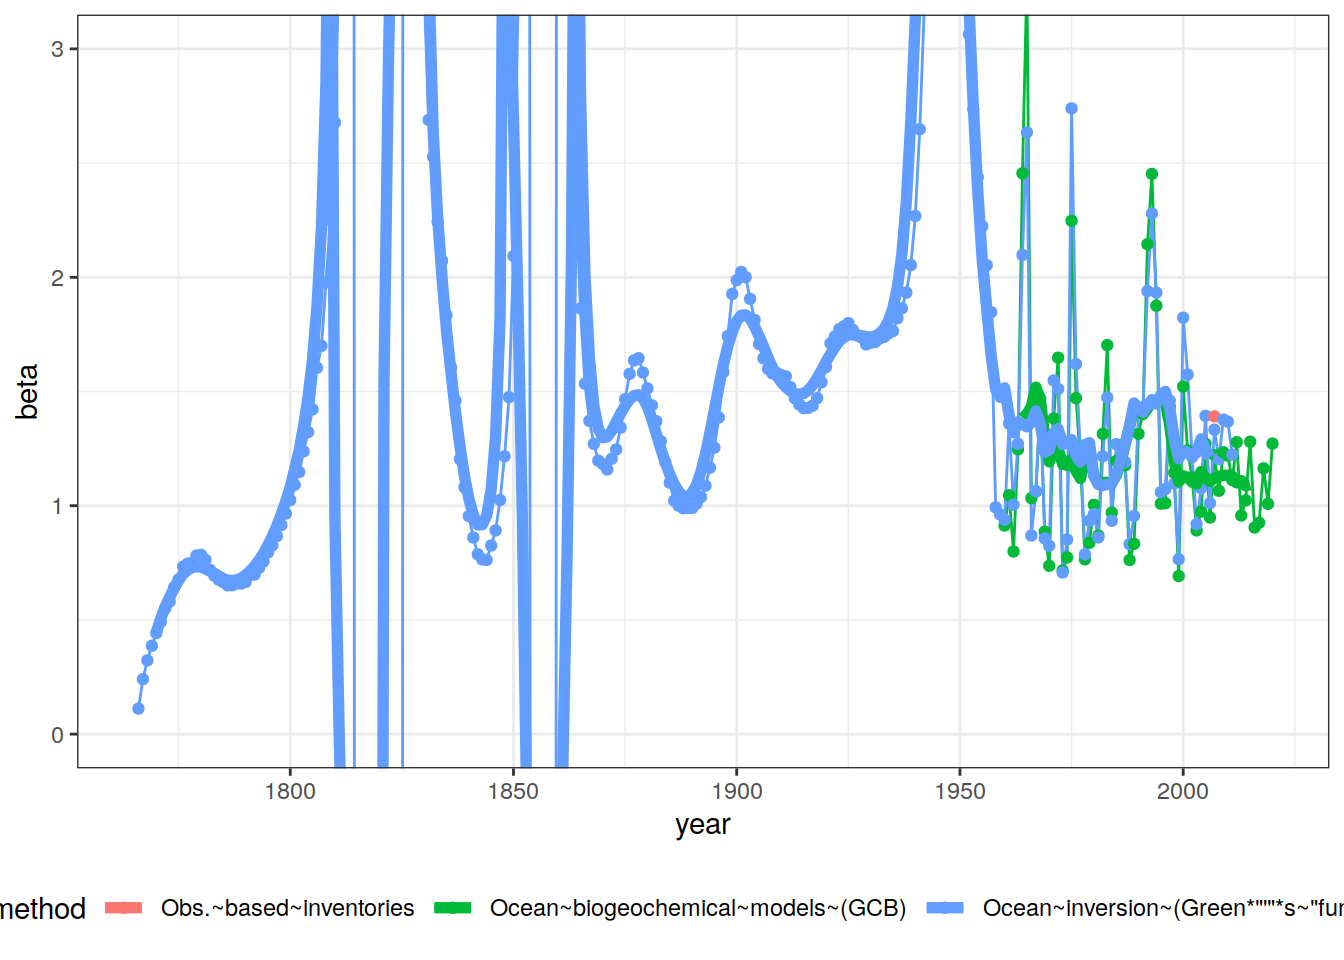
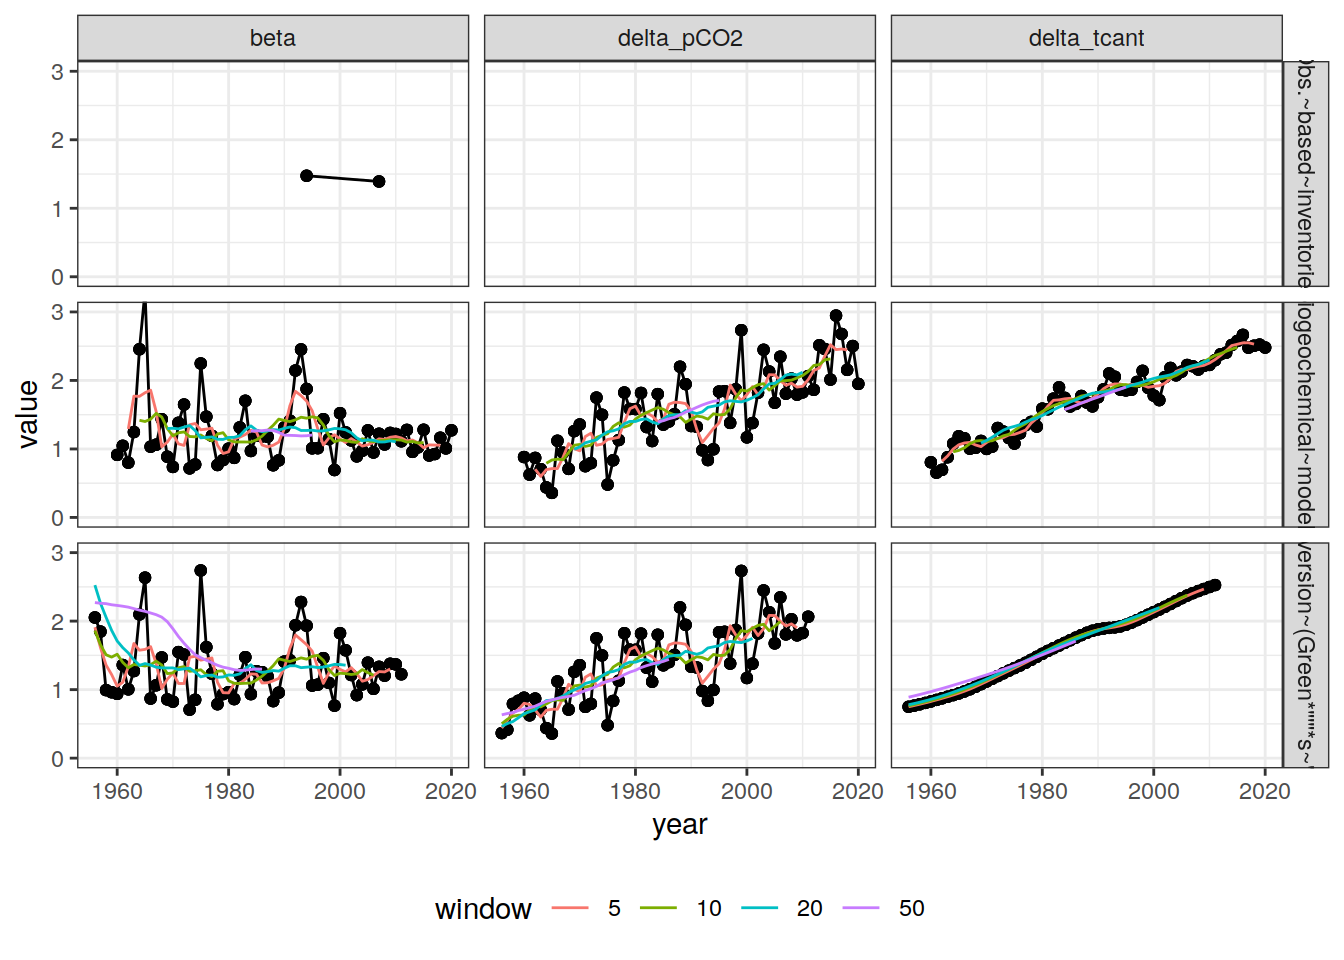
Build site.

diff --git a/docs/interior_storage.html b/docs/interior_storage.html
@@ -494,16 +494,16 @@ This reproducible <a href="https://rmarkdown.rstudio.com">R Markdown</a> analysi
 <div class="panel panel-default">
 <div class="panel-heading">
 <p class="panel-title">
-<a data-toggle="collapse" data-parent="#workflowr-checks" href="#strongRepositoryversionstrongahrefhttpsgithubcomjensdanielmuelleroceancarbonsinkreviewtreed8517d7d6a5d4276bc61b9f316914fe882ed9a29targetblankd8517d7a"> <span class="glyphicon glyphicon-ok text-success" aria-hidden="true"></span> <strong>Repository version:</strong> <a href="https://github.com/jens-daniel-mueller/ocean_carbon_sink_review/tree/d8517d7d6a5d4276bc61b9f316914fe882ed9a29" target="_blank">d8517d7</a> </a>
+<a data-toggle="collapse" data-parent="#workflowr-checks" href="#strongRepositoryversionstrongahrefhttpsgithubcomjensdanielmuelleroceancarbonsinkreviewtree6855bca120e11d19b4354766ef9cc60c1e9485c2targetblank6855bcaa"> <span class="glyphicon glyphicon-ok text-success" aria-hidden="true"></span> <strong>Repository version:</strong> <a href="https://github.com/jens-daniel-mueller/ocean_carbon_sink_review/tree/6855bca120e11d19b4354766ef9cc60c1e9485c2" target="_blank">6855bca</a> </a>
 </p>
 </div>
[2 lines of base64/hex data omitted]
 <div class="panel-body">
 <p>
 Great! You are using Git for version control. Tracking code development and connecting the code version to the results is critical for reproducibility.
 </p>
 <p>
-The results in this page were generated with repository version <a href="https://github.com/jens-daniel-mueller/ocean_carbon_sink_review/tree/d8517d7d6a5d4276bc61b9f316914fe882ed9a29" target="_blank">d8517d7</a>. See the <em>Past versions</em> tab to see a history of the changes made to the R Markdown and HTML files.
+The results in this page were generated with repository version <a href="https://github.com/jens-daniel-mueller/ocean_carbon_sink_review/tree/6855bca120e11d19b4354766ef9cc60c1e9485c2" target="_blank">6855bca</a>. See the <em>Past versions</em> tab to see a history of the changes made to the R Markdown and HTML files.
 </p>
 <p>
 Note that you need to be careful to ensure that all relevant files for the analysis have been committed to Git prior to generating the results (you can use <code>wflow_publish</code> or <code>wflow_git_commit</code>). workflowr only checks the R Markdown file, but you know if there are other scripts or data files that it depends on. Below is the status of the Git repository when the results were generated:
@@ -512,7 +512,6 @@ Note that you need to be careful to ensure that all relevant files for the analy
 Ignored files:
     Ignored:    .Rhistory
     Ignored:    .Rproj.user/
-    Ignored:    analysis/figure/
     Ignored:    output/
 
 </code></pre>
@@ -552,6 +551,40 @@ Message
 </tr>
 </thead>
 <tbody>
+<tr>
+<td>
+Rmd
+</td>
+<td>
+<a href="https://github.com/jens-daniel-mueller/ocean_carbon_sink_review/blob/6855bca120e11d19b4354766ef9cc60c1e9485c2/analysis/interior_storage.Rmd" target="_blank">6855bca</a>
+</td>
+<td>
+jens-daniel-mueller
+</td>
+<td>
+2022-05-03
+</td>
+<td>
+beta analysis with various window width
+</td>
+</tr>
+<tr>
+<td>
+html
+</td>
+<td>
+<a href="https://rawcdn.githack.com/jens-daniel-mueller/ocean_carbon_sink_review/64fbd0eadff622457648886ad506be47e001246b/docs/interior_storage.html" target="_blank">64fbd0e</a>
+</td>
+<td>
+jens-daniel-mueller
+</td>
+<td>
+2022-05-03
+</td>
+<td>
+Build site.
+</td>
+</tr>
 <tr>
 <td>
 Rmd
@@ -2949,51 +2982,93 @@ dev.off()</code></pre>
 <div id="beta" class="section level1">
 <h1>beta</h1>
 <pre class="r"><code>tcant_beta &lt;- tcant %&gt;% 
+  select(year, pCO2, method, tcant)
+
+tcant_beta_zero &lt;- tcant_beta %&gt;% 
+  filter(year == min(year)) %&gt;% 
+  mutate(method = &quot;Obs.~based~inventories&quot;)
+
+tcant_beta &lt;- bind_rows(
+  tcant_beta,
+  tcant_beta_zero
+)
+
+rm(tcant_beta_zero)
+
+tcant_beta &lt;- tcant_beta %&gt;% 
   group_by(method) %&gt;% 
   arrange(year) %&gt;% 
   mutate(delta_pCO2 = pCO2 - lag(pCO2),
          delta_tcant = tcant - lag(tcant),
-         beta = delta_tcant/delta_pCO2,
-         delta_pCO2_roll = rollmean(delta_pCO2, k=10, fill = NA),
-         delta_tcant_roll = rollmean(delta_tcant, k=10, fill = NA),
-         beta_roll = rollmean(beta, k=10, fill = NA)) %&gt;% 
+         beta = delta_tcant/delta_pCO2) %&gt;% 
+  ungroup() %&gt;% 
+  select(year, method, delta_pCO2, delta_tcant, beta)
+
+
+tcant_beta &lt;- tcant_beta %&gt;% 
+  pivot_longer(delta_pCO2:beta,
+               names_to = &quot;parameter&quot;,
+               values_to = &quot;value&quot;)
+
+tcant_beta &lt;- expand_grid(tcant_beta, window = c(5,10,20,50)) 
+
+
+tcant_beta &lt;- tcant_beta %&gt;%
+  arrange(year) %&gt;%
+  group_by(method, parameter, window) %&gt;%
+  mutate(
+    value_roll = rollmean(value, k = window, fill = NA)
+  ) %&gt;%
   ungroup()
 
 tcant_beta %&gt;% 
+  mutate(window = as.factor(window)) %&gt;% 
+  filter(year &gt; 1955) %&gt;% 
   ggplot() +
-  geom_path(aes(year, beta, col = method)) +
-  geom_point(aes(year, beta, col = method)) +
-  geom_path(aes(year, beta_roll, col = method), size = 2) +
+  geom_path(aes(year, value)) +
+  geom_point(aes(year, value)) +
+  geom_path(aes(year, value_roll, col = window)) +
   coord_cartesian(ylim = c(0,3)) +
-  theme(legend.position = &quot;bottom&quot;)</code></pre>
+  theme(legend.position = &quot;bottom&quot;) +
+  facet_grid(method ~ parameter)</code></pre>
 <p><img src="figure/interior_storage.Rmd/calculate_beta-1.png" width="672" style="display: block; margin: auto;" /></p>
-<pre class="r"><code>tcant_beta %&gt;% 
-  filter(year &gt; 1955) %&gt;% 
-  ggplot() +
-  geom_path(aes(year, beta, col = method)) +
-  geom_point(aes(year, beta, col = method)) +
-  geom_path(aes(year, beta_roll, col = method), size = 2) +
-  coord_cartesian(ylim = c(0,3)) +
-  theme(legend.position = &quot;bottom&quot;)</code></pre>
-<p><img src="figure/interior_storage.Rmd/calculate_beta-2.png" width="672" style="display: block; margin: auto;" /></p>
-<pre class="r"><code>tcant_beta %&gt;% 
-  filter(year &gt; 1955) %&gt;% 
-  ggplot() +
-  geom_path(aes(year, delta_pCO2, col = method)) +
-  geom_point(aes(year, delta_pCO2, col = method)) +
-  geom_path(aes(year, delta_pCO2_roll, col = method), size = 2) +
-  coord_cartesian(ylim = c(0,3)) +
-  theme(legend.position = &quot;bottom&quot;)</code></pre>
-<p><img src="figure/interior_storage.Rmd/calculate_beta-3.png" width="672" style="display: block; margin: auto;" /></p>
-<pre class="r"><code>tcant_beta %&gt;% 
-  filter(year &gt; 1955) %&gt;% 
-  ggplot() +
-  geom_path(aes(year, delta_tcant, col = method)) +
-  geom_point(aes(year, delta_tcant, col = method)) +
-  geom_path(aes(year, delta_tcant_roll, col = method), size = 2) +
-  coord_cartesian(ylim = c(0,3)) +
-  theme(legend.position = &quot;bottom&quot;)</code></pre>
-<p><img src="figure/interior_storage.Rmd/calculate_beta-4.png" width="672" style="display: block; margin: auto;" /></p>
+<p>
+<button type="button" class="btn btn-default btn-xs btn-workflowr btn-workflowr-fig" data-toggle="collapse" data-target="#fig-calculate_beta-1">
+Past versions of calculate_beta-1.png
+</button>
+</p>
+<div id="fig-calculate_beta-1" class="collapse">
+<div class="table-responsive">
+<table class="table table-condensed table-hover">
+<thead>
+<tr>
+<th>
+Version
+</th>
+<th>
+Author
+</th>
+<th>
+Date
+</th>
+</tr>
+</thead>
+<tbody>
+<tr>
+<td>
+<a href="https://github.com/jens-daniel-mueller/ocean_carbon_sink_review/blob/64fbd0eadff622457648886ad506be47e001246b/docs/figure/interior_storage.Rmd/calculate_beta-1.png" target="_blank">64fbd0e</a>
+</td>
+<td>
+jens-daniel-mueller
+</td>
+<td>
+2022-05-03
+</td>
+</tr>
+</tbody>
+</table>
+</div>
+</div>
 <div id="write-files-1" class="section level2">
 <h2>Write files</h2>
 <pre class="r"><code>tcant &lt;- tcant %&gt;%
